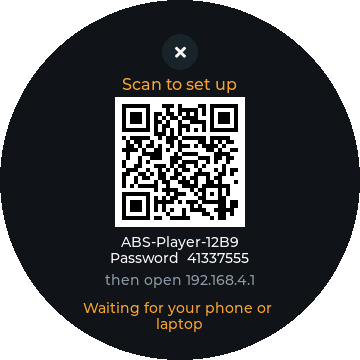
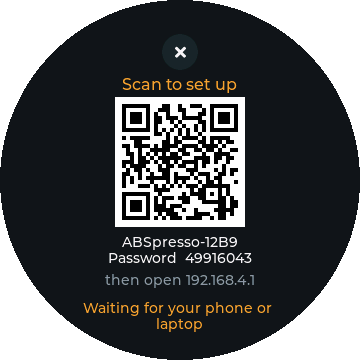
Rename to ABSpresso throughout
Project name (abspresso.bin), setup network ABSpresso-XXXX, setup page
title, User-Agent ABSpresso/0.1, the client name shown in ABS sessions,
and the DHCP hostname. Setup screenshot retaken (now after the network is
up).

Changed region(s): [[0.3361, 0.275, 0.5806, 0.6111], [0.3056, 0.6417, 0.7028, 0.7333]]

diff --git a/main/network/portal_page.h b/main/network/portal_page.h
@@ -6,7 +6,7 @@
 static const char PORTAL_PAGE[] =
 "<!doctype html><html><head><meta charset=utf-8>"
 "<meta name=viewport content='width=device-width,initial-scale=1'>"
-"<title>ABS Player setup</title><style>"
+"<title>ABSpresso setup</title><style>"
 ":root{--bg:#101418;--card:#1e252c;--text:#f2f2f2;--muted:#8c96a0;--accent:#f0a030}"
 "*{box-sizing:border-box}body{margin:0;background:var(--bg);color:var(--text);font:16px system-ui,sans-serif}"
 "main{max-width:480px;margin:0 auto;padding:16px}h1{font-size:22px;margin:8px 0 16px}"
@@ -20,7 +20,7 @@ static const char PORTAL_PAGE[] =
 "button:disabled{opacity:.5}#status{margin-top:12px;min-height:22px;text-align:center}"
 ".tabs{display:flex;gap:8px;margin-bottom:4px}.tabs label{flex:1;margin:0;text-align:center;padding:8px;border-radius:8px;background:#0c1014;color:var(--text)}"
 ".tabs input{display:none}.tabs input:checked+span{color:var(--accent)}"
-"</style></head><body><main><h1>ABS Player setup</h1>"
+"</style></head><body><main><h1>ABSpresso setup</h1>"
 "<section><h2>Wi-Fi</h2>"
 "<label for=ssid>Network</label><select id=ssid><option>Scanning...</option></select>"
 "<input id=ssid_other placeholder='Network name' style='display:none;margin-top:8px'>"

diff --git a/main/network/portal.c b/main/network/portal.c
@@ -325,7 +325,7 @@ void portal_start(void)
     if (!s_lock) s_lock = xSemaphoreCreateMutex();
     uint8_t mac[6];
     esp_read_mac(mac, ESP_MAC_WIFI_SOFTAP);
-    snprintf(s_ssid, sizeof(s_ssid), "ABS-Player-%02X%02X", mac[4], mac[5]);
+    snprintf(s_ssid, sizeof(s_ssid), "ABSpresso-%02X%02X", mac[4], mac[5]);
     snprintf(s_pass, sizeof(s_pass), "%08lu", (unsigned long)(esp_random() % 100000000UL));
     // The setup task scans for networks first, then brings the access point up (a scan takes
     // seconds, so keep it off the caller, which holds the UI lock).

diff --git a/main/network/wifi.c b/main/network/wifi.c
@@ -39,7 +39,8 @@ esp_err_t wifi_start(void)
     s_events = xEventGroupCreate();
     ESP_ERROR_CHECK(esp_netif_init());
     ESP_ERROR_CHECK(esp_event_loop_create_default());
-    esp_netif_create_default_wifi_sta();
+    esp_netif_t *sta = esp_netif_create_default_wifi_sta();
+    esp_netif_set_hostname(sta, "abspresso");  // how it shows in the router's device list
     esp_netif_create_default_wifi_ap();
 
     wifi_init_config_t init_cfg = WIFI_INIT_CONFIG_DEFAULT();

diff --git a/main/network/abs_api.c b/main/network/abs_api.c
@@ -17,8 +17,8 @@
 static const char *TAG = "abs";
 
 // The server's reverse proxy rejects some default user agents.
-#define USER_AGENT "abs-esp32/0.1"
-#define DEVICE_NAME "ESP32 ABS Player"
+#define USER_AGENT "ABSpresso/0.1"
+#define DEVICE_NAME "ABSpresso"
 
 // "Bearer <token>", replaced when the access token is refreshed; s_auth_gen counts refreshes.
 static char *s_auth;

diff --git a/main/ui/ui_capture.c b/main/ui/ui_capture.c
@@ -134,7 +134,7 @@ static void __attribute__((unused)) capture_task(void *arg)
     lvgl_port_lock(0);
     ui_setup_show();
     lvgl_port_unlock();
-    advance(1500);
+    wait_real(4500);  // the setup network starts after a ~3 s scan
     shot("setup", 0);
     printf("CAPTURE DONE\n");
     vTaskDelete(NULL);

diff --git a/README.md b/README.md
@@ -269,7 +269,7 @@ Wi-Fi network and shows how to reach it:
 
 <p align="center"><img src="docs/media/setup.png" width="240" alt="Setup screen with QR code"></p>
 
-1. Scan the QR code with a phone camera (or join `ABS-Player-XXXX` with the password shown).
+1. Scan the QR code with a phone camera (or join `ABSpresso-XXXX` with the password shown).
    The network uses WPA2 with a fresh random password each time.
 2. The setup page usually opens by itself (captive portal); otherwise browse to
    `http://192.168.4.1`.
